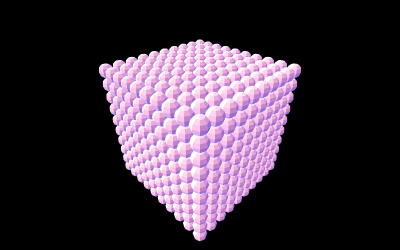
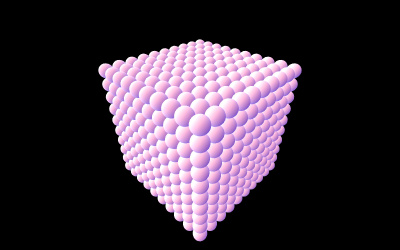
Examples: Improved webgl_instancing_raycast.

diff --git a/examples/webgl_instancing_raycast.html b/examples/webgl_instancing_raycast.html
@@ -24,9 +24,7 @@
 			var raycaster = new THREE.Raycaster();
 			var mouse = new THREE.Vector2( 1, 1 );
 
-			var rotationMatrix = new THREE.Matrix4().makeRotationY( 0.1 );
-			var instanceMatrix = new THREE.Matrix4();
-			var matrix = new THREE.Matrix4();
+			var color = new THREE.Color();
 
 			init();
 			animate();
@@ -47,15 +45,15 @@
 				light.position.set( - 1, - 1.5, - 1 );
 				scene.add( light );
 
-				var geometry = new THREE.SphereBufferGeometry( 0.5 );
-				var material = new THREE.MeshPhongMaterial( { flatShading: true } );
+				var geometry = new THREE.IcosahedronGeometry( 0.5, 2 );
+				var material = new THREE.MeshPhongMaterial();
 
 				mesh = new THREE.InstancedMesh( geometry, material, count );
 
 				var i = 0;
 				var offset = ( amount - 1 ) / 2;
 
-				var transform = new THREE.Object3D();
+				var matrix = new THREE.Matrix4();
 
 				for ( var x = 0; x < amount; x ++ ) {
 
@@ -63,10 +61,12 @@
 
 						for ( var z = 0; z < amount; z ++ ) {
 
-							transform.position.set( offset - x, offset - y, offset - z );
-							transform.updateMatrix();
+							matrix.setPosition( offset - x, offset - y, offset - z );
 
-							mesh.setMatrixAt( i ++, transform.matrix );
+							mesh.setMatrixAt( i, matrix );
+							mesh.setColorAt( i, color );
+
+							i ++;
 
 						}
 
@@ -132,11 +132,8 @@
 
 					var instanceId = intersection[ 0 ].instanceId;
 
-					mesh.getMatrixAt( instanceId, instanceMatrix );
-					matrix.multiplyMatrices( instanceMatrix, rotationMatrix );
-
-					mesh.setMatrixAt( instanceId, matrix );
-					mesh.instanceMatrix.needsUpdate = true;
+					mesh.setColorAt( instanceId, color.setHex( Math.random() * 0xffffff ) );
+					mesh.instanceColor.needsUpdate = true;
 
 				}
 
